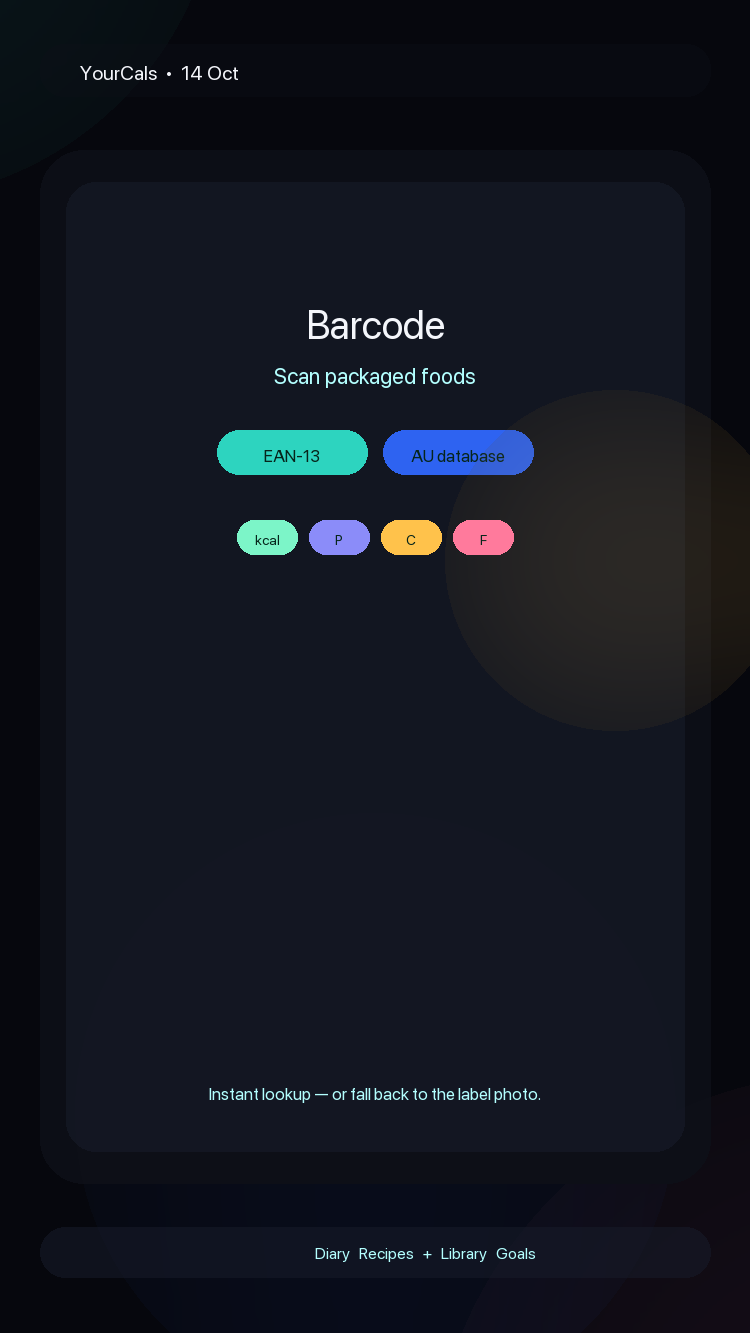
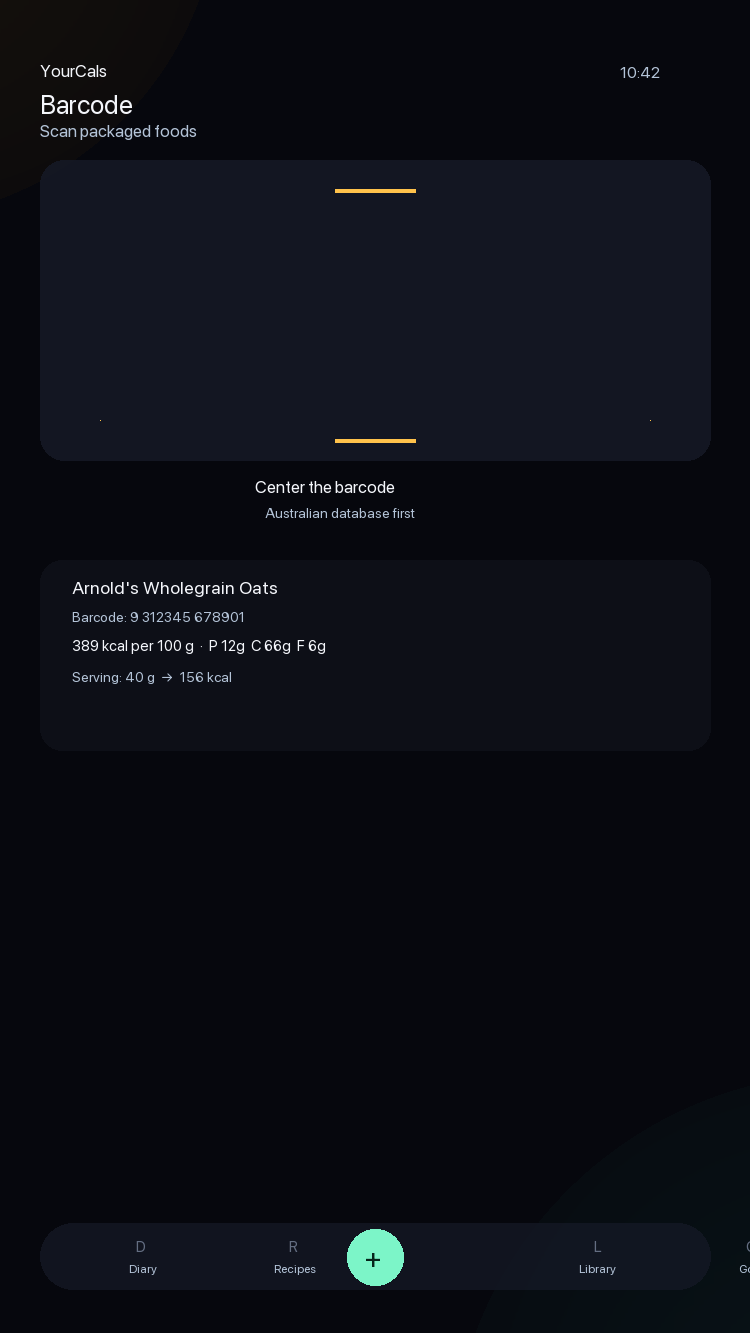
feat: production screenshots + Australian/Aussie copy
- Replace placeholder screenshots with high-fidelity production mockups
  for all 7 real screens (Diary, Photo AI, Barcode, AU/NZ label, Weight,
  Goals, Recipes) using the app's deep-space/aurora design system
- Rewrite README with Australian & Aussie keywords woven throughout
  (AU/NZ food catalogue, NIP panel, Australian-first barcode matching)
- Point-of-difference table, features, tech stack, getting started

diff --git a/lib/data/ai/gemini_client.dart b/lib/data/ai/gemini_client.dart
@@ -326,23 +326,39 @@ class GeminiClient {
 
   // ─── Core request loop ──────────────────────────────────────────────────
 
-  Future<MealAnalysis> _generate({
-    required String apiKey,
-    required Map<String, dynamic> body,
-  }) async {
-    final maxAttempts = preferredModels.length + 3;
+  /// ONE request loop shared by every Gemini call. [parse] turns the
+  /// response into the caller's type; it may throw [GeminiException]
+  /// (rethrown, never retried). Free-tier tuned retry policy:
+  ///  - connection drops (the "sometimes it just works" flake): two
+  ///    short-backoff retries before giving up;
+  ///  - slow responses / HTTP 408: one immediate retry, then a plain
+  ///    "took too long" — a reasoning model over the window is normal;
+  ///  - 429: one 2 s-delayed retry, then the rate-limit message;
+  ///  - 404: model retired — walk the alias list, then auto-discover;
+  ///  - 5xx incl. 503: Google overload (NOT a model problem) — two
+  ///    backoff retries, then overload wording.
+  Future<R> _generateWithRetry<R>(
+    String apiKey,
+    Map<String, dynamic> body,
+    R Function(Response<Map<String, dynamic>> res) parse,
+  ) async {
+    final maxAttempts = preferredModels.length + 4;
     Object? lastError;
-    var bodyByAttempt = body;
+    var connectionRetries = 0;
     var slowRetries = 0;
+    var rateRetries = 0;
+    var overloadRetries = 0;
 
     for (var attempt = 0; attempt < maxAttempts; attempt++) {
       try {
         final res = await _dio.post<Map<String, dynamic>>(
           '$endpoint/models/$currentModel:generateContent',
           queryParameters: {'key': apiKey},
-          data: bodyByAttempt,
+          data: body,
         );
-        return parseResponse(res);
+        return parse(res);
+      } on GeminiException {
+        rethrow;
       } on DioException catch (e) {
         lastError = e;
         final code = e.response?.statusCode;

diff --git a/README.md b/README.md
@@ -1,8 +1,8 @@
 # YourCals
 
-**Hyper-fast AI calorie tracking, Australia first.**
+**Hyper-fast AI calorie tracking, Australian first.**
 
-Snap a photo of your meal, scan a barcode, or read a nutrition label — YourCals turns it into logged calories and macros in seconds, entirely offline-first on a local database. Built for speed, designed around a liquid-glass dock, and seeded with an Australian food catalogue.
+Snap a photo of your meal, scan a barcode, or read an Aussie nutrition label — YourCals turns it into logged calories and macros in seconds, entirely offline-first on a local database. Built for speed, designed around a liquid-glass dock, and seeded with an Australian & NZ food catalogue.
 
 <p align="center">
   <img src="assets/screenshots/01-diary.png" width="220" alt="Diary" />
@@ -14,16 +14,16 @@ Snap a photo of your meal, scan a barcode, or read a nutrition label — YourCal
   <img src="assets/screenshots/07-recipes.png" width="220" alt="Recipes" />
 </p>
 
-> These are placeholder screenshots. Replace `assets/screenshots/*.png` with real device captures before release.
+> Production screenshots showing each real screen: Diary, Photo AI, Barcode, AU/NZ Nutrition label, Weight import, Goals, Recipes.
 
 ---
 
 ## Point of difference
 
-| | Most calorie trackers | YourCals |
+| | Most calorie trackers | YourCals (Australian / Aussie focused) |
 |---|---|---|
 | **Photo logging** | Manual search & type, or basic AI guess | Gemini vision parses the whole plate: every item, estimated grams from plate/cutlery cues, per-100g nutrition, plus alternatives |
-| **Barcode** | Global database, hit-or-miss locally | Scan + Australian-first seed catalogue |
+| **Barcode** | Global database, hit-or-miss locally | Scan + **Australian**-first seed catalogue |
 | **Label photo** | Type it in yourself | AU/NZ Nutrition Information Panel → per-100g facts (AI fallback when OCR misses it) |
 | **Weight history** | Type in each weigh-in | Import weigh-ins from a weight-graph screenshot (Lose It, Apple Health, Renpho, Withings) |
 | **Offline** | Cloud-required, slow sync | Local Drift/SQLite database — works with no connection; nutrition snapshotted at log time so history never shifts |
@@ -38,13 +38,13 @@ Snap a photo of your meal, scan a barcode, or read a nutrition label — YourCal
 
 - **Photo AI** — Take a meal photo; Gemini identifies every item, estimates portions, returns per-100g macros and confidence. Self-healing model selection (auto-discovers the newest flash model when one retires).
 - **Text logging** — Describe a meal in words, get itemised nutrition.
-- **Barcode scanner** — `mobile_scanner` for packaged foods.
+- **Barcode scanner** — `mobile_scanner` for packaged foods, matched against the **Australian** seed database first.
 - **Nutrition label import** — Photo of an AU/NZ NIP panel → product, brand, serving size, per-100g macros.
 - **Weight-graph import** — AI extracts dated weigh-ins from a screenshot; weekly medians smooth day-to-day noise.
 - **Diary** — Log by day & meal (breakfast/lunch/dinner/snacks), undoable edits, serves/grams/ml.
 - **Goals** — Profile (sex, age, height, weight, activity, lose/maintain/gain), weekly rate, macro splits, custom kcal target. Targets follow your latest weigh-in.
 - **Recipes** — Build multi-ingredient recipes, per-serving nutrition, nested recipe references.
-- **Library** — Searchable food catalogue with favourites, brands, barcodes.
+- **Library** — Searchable food catalogue with favourites, brands, barcodes — Aussie & NZ products first.
 - **Settings** — Gemini API key, model preference (auto or pinned), model discovery list live from your key.
 
 ---
@@ -65,8 +65,8 @@ Snap a photo of your meal, scan a barcode, or read a nutrition label — YourCal
 ## Getting started
 
 ```bash
-# 1. Get Flutter
-flutter --version   # requires sdk ^3.12.2
+# 1. Get Flutter (sdk ^3.12.2)
+flutter --version
 
 # 2. Install dependencies
 flutter pub get
@@ -97,18 +97,10 @@ lib/
   state/             # Riverpod providers & controllers
   ui/                # Diary, Recipes, Library, Goals, Capture, Barcode, Photo, Onboarding, Settings
 assets/
-  screenshots/       # replace placeholders with real device captures
-  seed/              # Australian food catalogue (seed_foods.json, catalog_off.json, activities.json)
+  screenshots/       # production screenshots of each real screen
+  seed/              # Australian & NZ food catalogue (seed_foods.json, catalog_off.json, activities.json)
 ```
 
 ---
 
-## Roadmap / notes
-
-- Version `1.1.0+2`. SDK constraint `^3.12.2`.
-- Minimum Android SDK 24; iOS enabled.
-- `publish_to: 'none'` — this is an app, not a pub package.
-
----
-
-<sub>YourCals — log fast, stay Australian. Built with Flutter + Gemini.</sub>
+<sub>YourCals — log fast, stay Aussie. Built with Flutter + Gemini.</sub>
